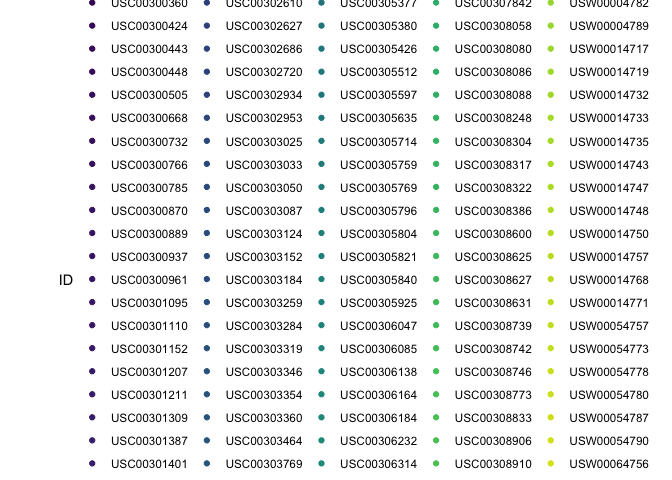
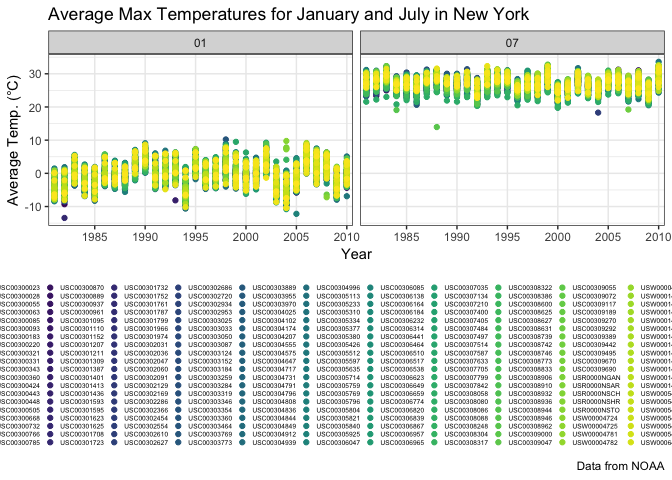
jan/july plot q3

diff --git a/p8105_hw3_tj2383.md b/p8105_hw3_tj2383.md
@@ -409,16 +409,17 @@ The following plot: Make a two-panel plot showing the average max temperature in
 
 ``` r
 ny_noaa_data %>% 
-  filter(tmax != "NA", month == "01" | month == "07") %>%
+  filter(tmax != "NA" & (month == "01" | month == "07")) %>% 
   group_by(id, year, month) %>% 
-  summarize(mean_tmax = mean(tmax)) %>% 
-  ggplot(aes(x = year, y = mean_tmax, color = id)) +
-  geom_point() +
-  facet_grid(~month) +
+  summarize(avg_tmax = mean(tmax)) %>%
+  ggplot(aes(x = year, y = avg_tmax, color = id)) +
+    geom_point() +
+  scale_x_discrete(breaks = c(1980, 1985, 1990, 1995, 2000, 2005, 2010)) +
+  facet_grid(~month) +  
   labs(
-      x = "year",
-      y = "average temperature (°C)",
-      title = "Average temperatures for january and july at New York weather stations",
+      x = "Year",
+      y = "Average Temp. (°C)",
+      title = "Average Max Temperatures for January and July in New York",
       caption = "Data from NOAA"
     ) +
     viridis::scale_color_viridis(
@@ -426,7 +427,8 @@ ny_noaa_data %>%
       name = "ID"
     ) +
     theme_bw() +
-    theme(legend.position = "bottom")
+    theme(legend.position = "bottom", legend.text = element_text(size = 5), legend.key.size = unit(1, "point")) +
+    guides(color = guide_legend(nrow = 20))
 ```
 
 ![](p8105_hw3_tj2383_files/figure-markdown_github/unnamed-chunk-13-1.png)
